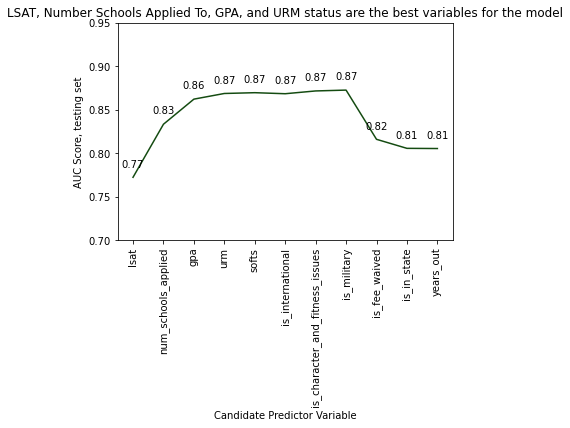
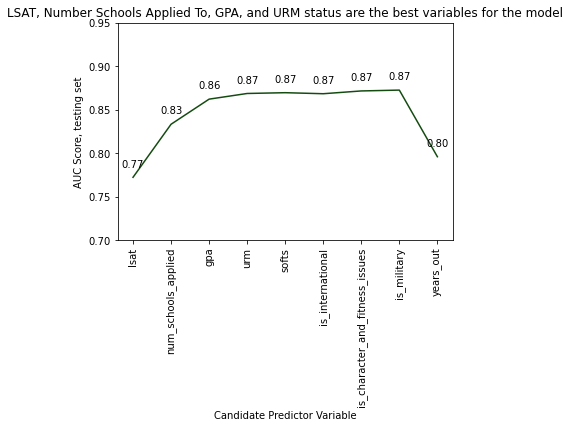
removed variables from t14 AUC curve

diff --git a/t14_logReg.py b/t14_logReg.py
@@ -200,8 +200,8 @@ for v in current_variables:
 x = np.array(range(0,len(auc_values_train)))
 y_test = np.array(auc_values_test)
 plt.xticks(x, current_variables, rotation = 90)
-plt.plot(x,y_test)
-plt.ylim((0.6, 1))
+plt.plot(x,y_test,  color = '#144b11')
+plt.ylim((0.7, .95))
 plt.ylabel("AUC Score, testing set")
 plt.xlabel("Candidate Predictor Variable")
 for x,y in zip(x,y_test):
